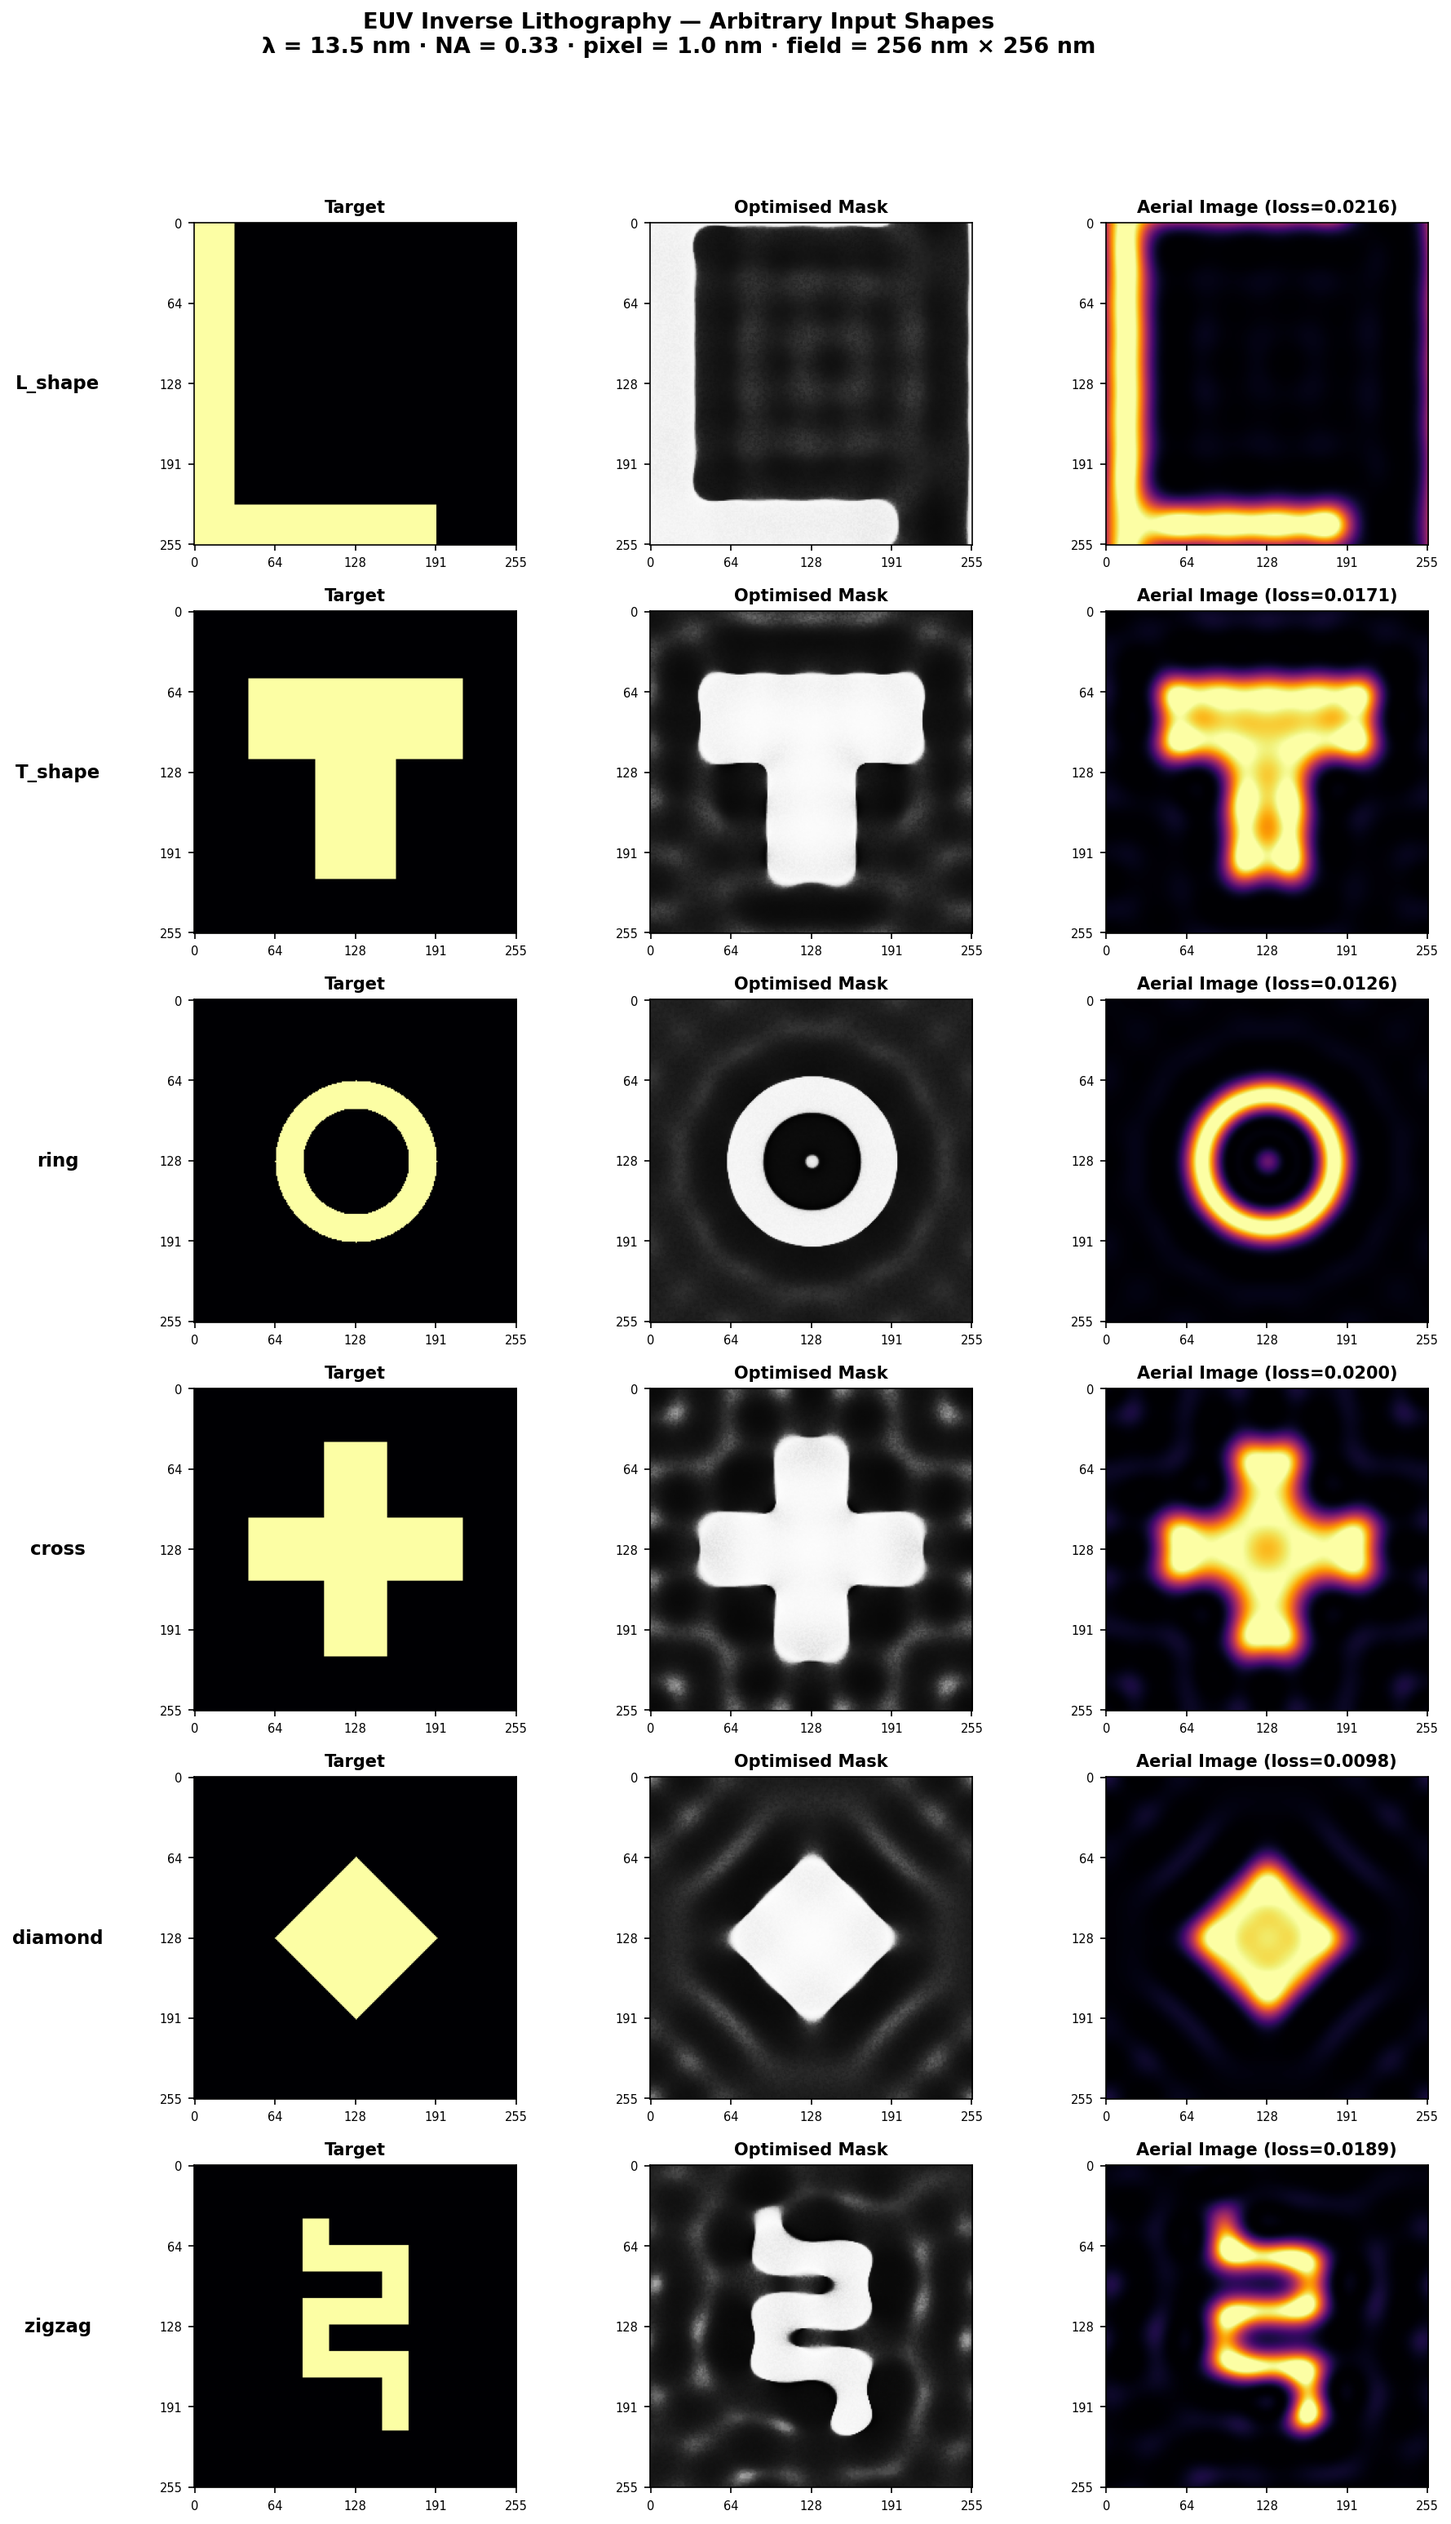
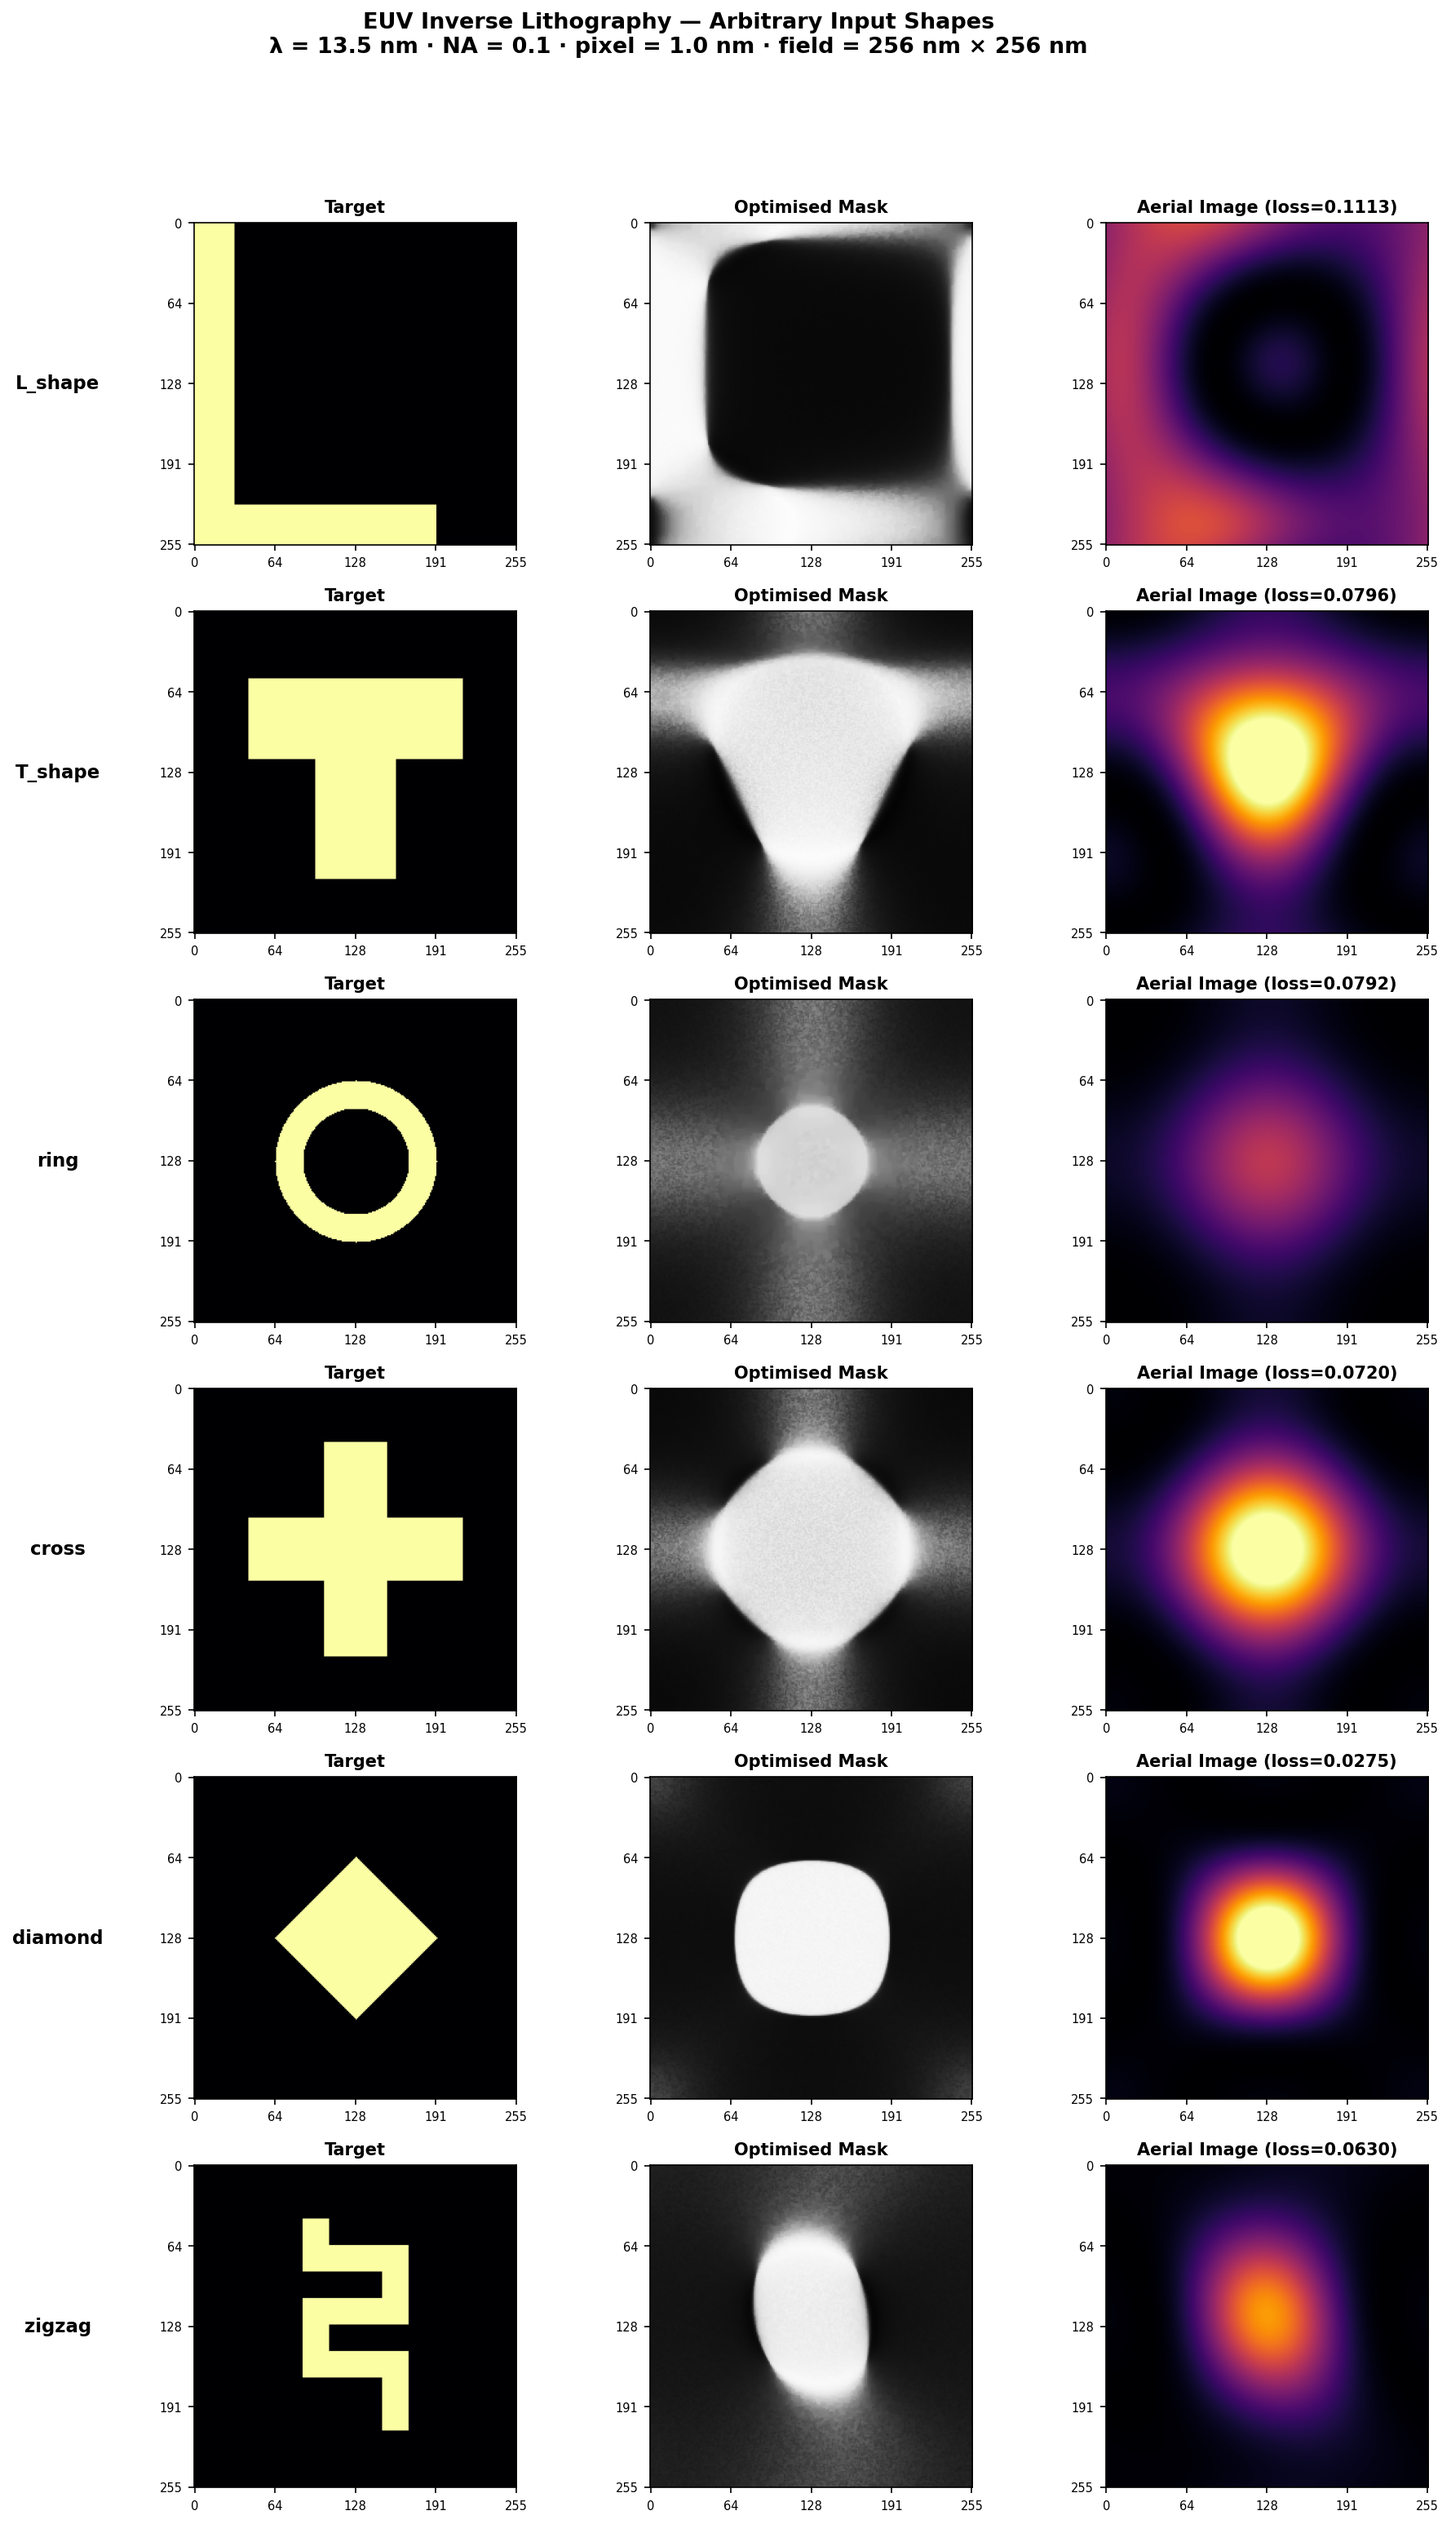
Replace README media with aggressive-diffraction (NA=0.10) visualizations
Update generate_visualizations.py default NA from 0.33 to 0.10 so the
resolution limit (~67 nm) exceeds feature sizes, producing clearly
visible diffraction effects. Forward diffraction comparison now shows
NA = 0.10 / 0.20 / 0.33 range.

Regenerate all images and GIFs under aggressive conditions.

Update README.md descriptions to reference aggressive diffraction
parameters throughout.

diff --git a/examples/generate_visualizations.py b/examples/generate_visualizations.py
@@ -39,9 +39,12 @@ from litho_engine.diffraction import create_test_mask
 OUTPUT_DIR = os.path.join(os.path.dirname(__file__), '..', 'docs', 'images')
 FINAL_FRAME_HOLD_COUNT = 15
 
-# ── EUV defaults ──────────────────────────────────────────────────────────
+# ── EUV defaults — aggressive diffraction ─────────────────────────────────
+# Use a low NA so that the resolution limit (λ/(2·NA) ≈ 67 nm) is well
+# above typical feature sizes, producing strong, clearly visible
+# diffraction effects that showcase the inverse-mask optimiser in action.
 EUV_WAVELENGTH = 13.5   # nm
-EUV_NA = 0.33            # standard EUV NA
+EUV_NA = 0.10            # low NA → aggressive diffraction
 EUV_PIXEL = 1.0          # nm per pixel
 
 
@@ -242,12 +245,12 @@ def generate_forward_diffraction_image():
 
     patterns = ['square', 'circle', 'lines']
     configs = [
-        {'wavelength': 13.5, 'NA': 0.25, 'pixel_size': 1.0,
-         'label': 'EUV 13.5 nm, NA = 0.25'},
+        {'wavelength': 13.5, 'NA': 0.10, 'pixel_size': 1.0,
+         'label': 'EUV 13.5 nm, NA = 0.10 (aggressive)'},
+        {'wavelength': 13.5, 'NA': 0.20, 'pixel_size': 1.0,
+         'label': 'EUV 13.5 nm, NA = 0.20'},
         {'wavelength': 13.5, 'NA': 0.33, 'pixel_size': 1.0,
          'label': 'EUV 13.5 nm, NA = 0.33'},
-        {'wavelength': 13.5, 'NA': 0.55, 'pixel_size': 1.0,
-         'label': 'EUV 13.5 nm, NA = 0.55 (High-NA)'},
     ]
     size = 256
 

diff --git a/README.md b/README.md
@@ -4,9 +4,11 @@ A differentiable physics engine for **EUV (Extreme Ultraviolet) computational li
 
 ## Visual Proof — It Works!
 
+All visualisations below use **aggressive diffraction conditions** (λ = 13.5 nm, NA = 0.10, pixel = 1 nm) so that diffraction effects are unmistakable. The resolution limit at NA = 0.10 is ≈ 67 nm — well above the feature sizes in each pattern — forcing the optimiser to work hard to recover the target.
+
 ### Inverse Mask Optimisation (Animated)
 
-The engine automatically finds the optimal photomask that produces any desired chip pattern under realistic EUV diffraction. Watch the optimiser converge in real time — note how the **optimised mask differs significantly from the target** due to diffraction compensation:
+The engine automatically finds the optimal photomask that produces any desired chip pattern under heavy EUV diffraction. Watch the optimiser converge in real time — note how the **optimised mask differs dramatically from the target** because it must pre-compensate for severe diffraction blurring:
 
 ![Inverse lithography optimisation — cross pattern](docs/images/optimization_cross.gif)
 
@@ -16,31 +18,31 @@ The engine automatically finds the optimal photomask that produces any desired c
 
 ### Arbitrary Input Shapes
 
-The engine handles **any** target geometry — L-shapes, T-shapes, rings, crosses, diamonds, zigzags, and more. All at nm-scale with visible EUV diffraction effects:
+The engine handles **any** target geometry — L-shapes, T-shapes, rings, crosses, diamonds, zigzags, and more. All at nm-scale under aggressive diffraction (NA = 0.10):
 
 ![Arbitrary shapes gallery](docs/images/arbitrary_shapes_gallery.png)
 
 ### EUV Forward Diffraction — Varying Numerical Aperture
 
-Forward diffraction simulation at **λ = 13.5 nm** across different NA values (0.25, 0.33, 0.55 High-NA). Axes are labelled in nanometres. Diffraction effects (blurring, ringing, Airy patterns) are clearly visible:
+Forward diffraction simulation at **λ = 13.5 nm** across three NA values (0.10 aggressive, 0.20, 0.33). At NA = 0.10 the resolution limit (≈ 67 nm) exceeds most feature sizes, producing extreme blurring, ringing, and Airy-like patterns. As NA increases the image sharpens:
 
 ![Forward diffraction comparison](docs/images/forward_diffraction_comparison.png)
 
 ### Multiple Field-of-View Sizes
 
-Works with any mask dimensions — demonstrated here at 128 nm, 256 nm, and 512 nm fields of view:
+Works with any mask dimensions — demonstrated here at 128 nm, 256 nm, and 512 nm fields of view, all under aggressive diffraction (NA = 0.10):
 
 ![Multi-size demonstration](docs/images/multi_size_demo.png)
 
 ### Thermal Compensation (Silicon Wafer Heating & Cooling)
 
-During EUV lithography the wafer is hot (200 °C). When it cools to operating temperature (80 °C), silicon contracts according to its temperature-dependent coefficient of thermal expansion (CTE). Without compensation the printed pattern shrinks and no longer matches the target. The engine pre-compensates the mask so the **cooled-down chip perfectly matches the intended geometry**:
+During EUV lithography the wafer is hot (200 °C). When it cools to operating temperature (80 °C), silicon contracts according to its temperature-dependent coefficient of thermal expansion (CTE). Without compensation the printed pattern shrinks and no longer matches the target. The engine pre-compensates the mask so the **cooled-down chip perfectly matches the intended geometry** (all under aggressive NA = 0.10 diffraction):
 
 ![Thermal compensation](docs/images/thermal_compensation.png)
 
 ### Thermal-Aware Optimisation (Animated)
 
-Full thermal-aware inverse lithography: the optimiser accounts for silicon thermal expansion coefficients so the pattern at 80 °C matches the target:
+Full thermal-aware inverse lithography under aggressive diffraction (NA = 0.10): the optimiser accounts for both severe diffraction and silicon thermal expansion so the pattern at 80 °C matches the target:
 
 ![Thermal-aware optimisation animation](docs/images/thermal_optimization.gif)
 
@@ -55,7 +57,7 @@ This engine provides a complete framework for **EUV computational lithography** 
 - **Thermal Expansion Modelling**: Silicon wafer heating/cooling effects with temperature-dependent CTE (Okada & Tokumaru, 1984)
 - **Thermal-Aware Optimisation**: Pre-compensates masks so the cooled chip (80 °C) matches the target geometry
 - **Differentiable Architecture**: Built on PyTorch for automatic differentiation and GPU acceleration
-- **EUV-Focused**: Default parameters set for λ = 13.5 nm, NA = 0.33, nm-scale pixel size — where diffraction effects are significant and clearly visible
+- **EUV-Focused**: Default parameters set for λ = 13.5 nm, NA = 0.10, nm-scale pixel size — aggressive diffraction regime where the resolution limit exceeds feature sizes, making optimiser convergence clearly visible
 
 ## Installation
 
@@ -85,11 +87,11 @@ import torch
 from litho_engine import FraunhoferDiffraction
 from litho_engine.diffraction import create_test_mask
 
-# Create diffraction model (EUV lithography parameters)
+# Create diffraction model (EUV lithography — aggressive diffraction)
 diffraction = FraunhoferDiffraction(
     wavelength=13.5,   # nm — EUV
     pixel_size=1.0,    # nm per pixel
-    NA=0.33            # Numerical aperture
+    NA=0.10            # Low NA → aggressive diffraction
 )
 
 # Create a test mask
@@ -252,7 +254,7 @@ P(fx,fy) = 1 if √(fx² + fy²) ≤ NA/λ   (cycles/nm)
          = 0 otherwise
 ```
 
-This creates the fundamental resolution limit in optical lithography. For EUV at λ = 13.5 nm with NA = 0.33, the cutoff frequency is ~0.024 cycles/nm, meaning features smaller than ~20 nm are strongly diffracted.
+This creates the fundamental resolution limit in optical lithography. For EUV at λ = 13.5 nm with NA = 0.10, the cutoff frequency is ~0.0074 cycles/nm, meaning features smaller than ~67 nm are strongly diffracted — producing the dramatic blurring visible in the animations above.
 
 ### Inverse Optimization
 
